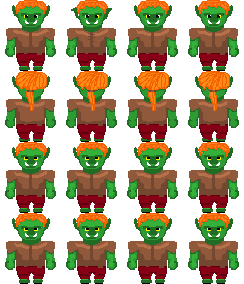
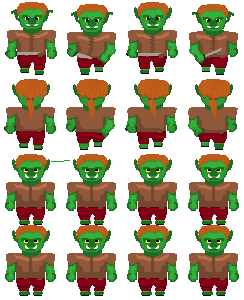
Added variations and Southward Walk animation to Orcs

diff --git a/js/World.js b/js/World.js
@@ -232,7 +232,7 @@ var forest =	 [  0,  0,  0,  0,  0,  0,  0,  0,  0,  0,  0,  0,  0,  0,  0,  0, 
 					0,  0,  0,  0,  0,  0,  0,  0,  0,  0,  0,  0,  0,  0,  0,  0,  0,  0,  0,  0,  0,  0,  0,  0,  0,  0,  0,  0,  0,  0,  0,  0,  0,  0,  0,  0,  0,  0,  0,  0,  0,  0,  0,  0,  0,  0,  0,  0,  0,  0,  0,  0,  0,  0,  0,  0,  0,  0,  0,  0,  0,  0,  0,  0,
 				    0,  0,  0,  0,  0,  0,  0,  0,  0,  0,  0,  0,  0,  0,  0,  0,  0,  0,  0,  0,  0,  0,  0,  0,  0,  0,  0,  0,  0,  0,  0,  0,  0,  0,  0,  0,  0,  0,  0,  0,  0,  0,  0,  0,  0,  0,  0,  0,  0,  0,  0,  0,  0,  0,  0,  0,  0,  0,  0,  0,  0,  0,  0,  0,
 				    0,  0,  0,  0,  0,  0,  0,  0,  0,  0,  0,  0,  0,  0,  0,  0,  0,  0,  0,  0,  0,  0,  0,  0,  0,  0,  0,  0,  0,  0,  0,  0,  0,  0,  0,  0,  0,  0,  0,  0,  0,  0,  0,  0,  0,  0,  0,  0,  0,  0,  0,  0,  0,  0,  0,  0,  0,  0,  0,  0,  0,  0,  0,  0,
-					0,  0,  0,  0,  0,  0,  0,  0,  0,  0,  0,  0,  0,  0,  0,  0,  0,  0,  0,  0,  0,  0,  0,  0,  0,  0,  0,  0,  0,  0,  0,  0,  0,  0,  0,  0,  0,  0,  0,  0,  0,  0,  0,  0,  0,  0,  0,  0,  0,  0,  0,  0,  0,  0,806,806,806,806,811,  1,  1,  1,  1,  1,
+					0,  0,  0,  0,  0,  0,  0,  0,  0,  0,  0,  0,  0,  0,  0,  0,  0,  0,  0,  0,  0,  0,  0,  0,  0,  0,  0,  0,  0,  0,  0,  0,  0,  0,  0,  0,  0,  0,  0,  0,  0,  0,  0,  0,  0,  0,  0,  0,  0,  0,  0,  0,  0,  0,806,807,808,807,811,  1,  1,  1,  1,  1,
 				    0,  0,  0,  0,  0,  0,  0,  0,  0,  0,  0,  0,  0,  0,  0,  0,  0,  0,  0,  0,  0,  0,  0,  0,  0,  0,  0,  0,  0,  0,  0,  0,  0,  0,  0,  0,  0,  0,  0,  0,  0,  0,  0,  0,  0,  0,  0,  0,  0,  0,  0,  0,  0,  0,  0,  0,  0,  0,  0,  0,  0,  0,  0,  0,
 				    0,  0,  0,  0,  0,  0,  0,  0,  0,  0,  0,  0,  0,  0,  0,  0,  0,  0,  0,  0,  0,  0,  0,  0,  0,  0,  0,  0,  0,  0,  0,  0,  0,  0,  0,  0,  0,  0,  0,  0,  0,  0,  0,  0,  0,  0,  0,  0,  0,  0,  0,  0,  0,  0,  0,  0,  0,  0,  0,  0,  0,  0,  0,  0,
 				    0,  0,  0,  0,  0,  0,  0,  0,  0,  0,  0,  0,  0,  0,  0,  0,  0,  0,  0,  0,  0,  0,  0,  0,  0,  0,  0,  0,  0,  0,  0,  0,  0,  0,  0,  0,  0,  0,  0,  0,  0,  0,  0,  0,  0,  0,  0,  0,  0,  0,  0,  0,  0,  0,  0,  0,  0,  0,  0,  0,  0,  0,  0,  0,

diff --git a/js/utilities/ImageLoading.js b/js/utilities/ImageLoading.js
@@ -343,8 +343,8 @@ function loadImages() {
     { varName: goblinPic3, theFile: "Monsters/Goblin3.png" },
     { varName: goblinPic4, theFile: "Monsters/Goblin4.png" },
     { varName: orcPic, theFile: "Monsters/Orc1.png" },
-    { varName: orcPic2, theFile: "Monsters/Orc1.png" }, // i've stubbed these last two until they are animated - SD
-    { varName: orcPic3, theFile: "Monsters/Orc1.png" },
+    { varName: orcPic2, theFile: "Monsters/Orc2.png" }, 
+    { varName: orcPic3, theFile: "Monsters/Orc3.png" },
     { varName: orcBossPic, theFile: "Monsters/OrcChief.png" },
 	{ varName: deadOrcBossPic, theFile: "Monsters/deadGoblin.png" },  //placeholder.  Need a dead Orc Boss Pic
     { varName: druidPic, theFile: "Monsters/druid.png" },
